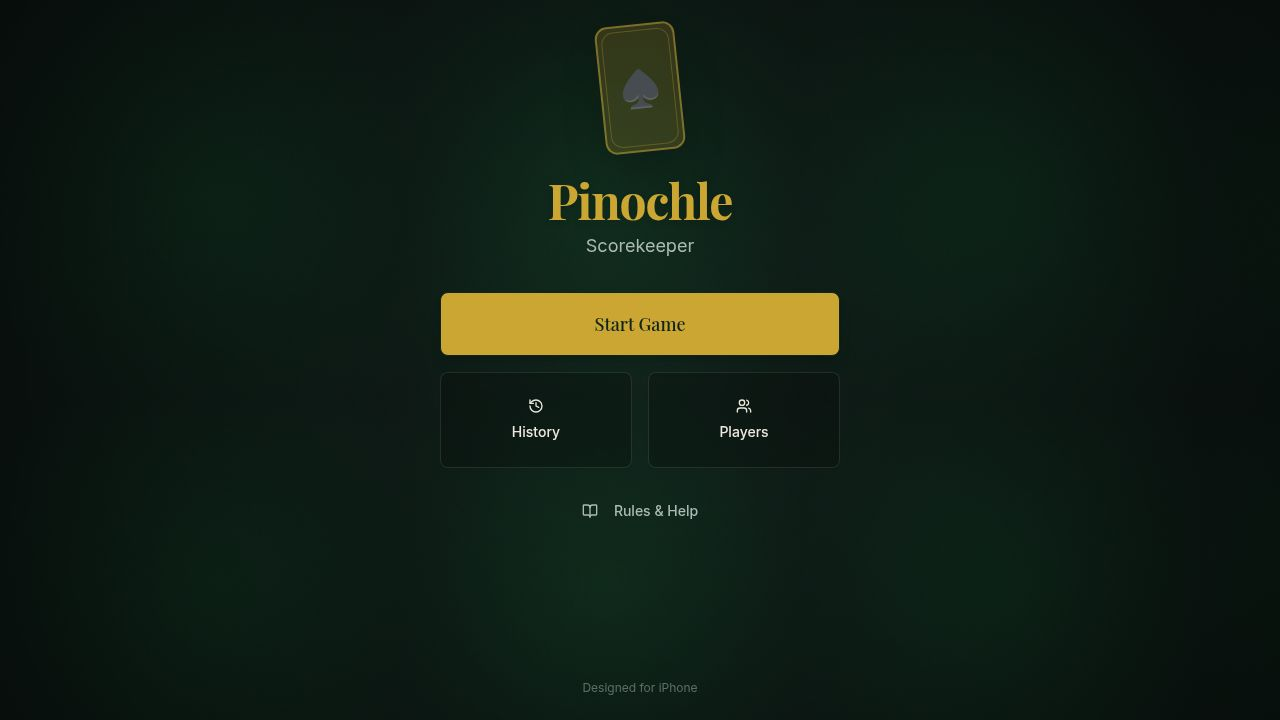
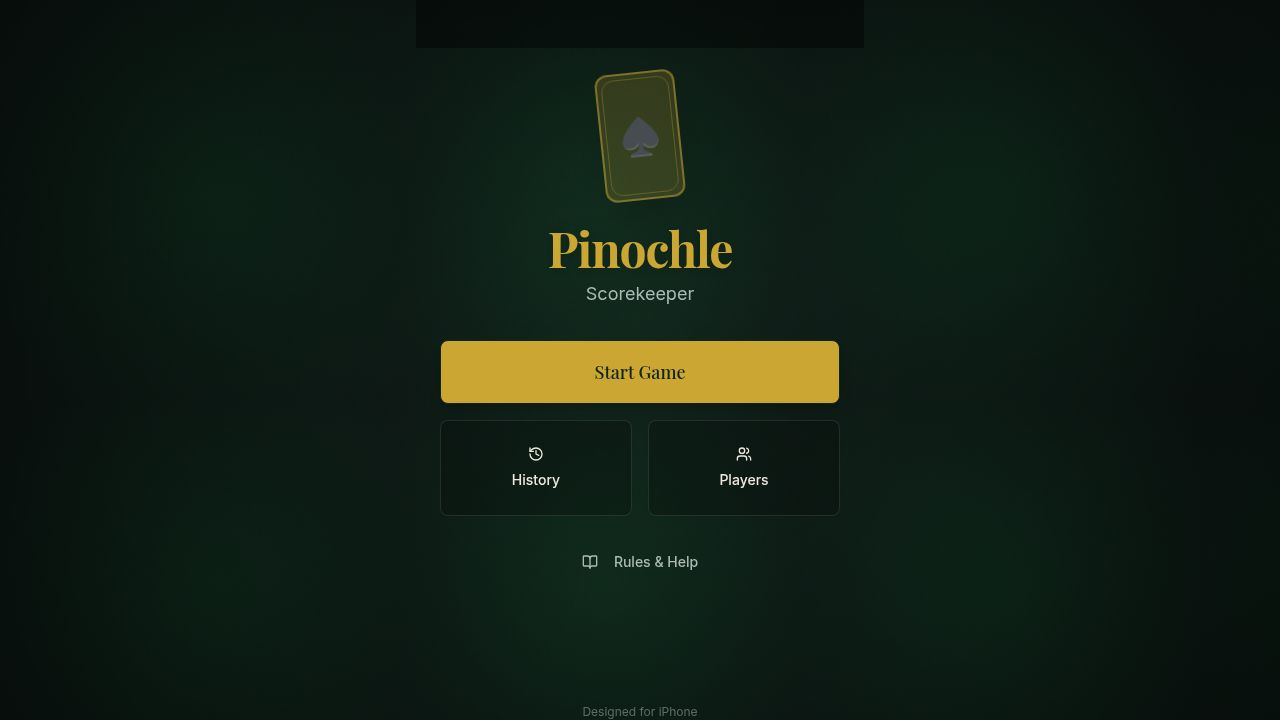
Add top spacing to ensure content is below the screen's dynamic island
Introduce a `SafeAreaTop` component and integrate it into various layout and header components across the application to account for `env(safe-area-inset-top)`. This addresses overlapping UI elements on devices with notches or dynamic islands.

Replit-Commit-Author: Agent
Replit-Commit-Session-Id: 0c8156b9-da63-42cc-8983-2485315dd8e3
Replit-Commit-Checkpoint-Type: intermediate_checkpoint
Replit-Commit-Event-Id: 95877ea5-78ca-4a24-9460-f9c76713bd26
Replit-Commit-Screenshot-Url: https://storage.googleapis.com/screenshot-production-us-central1/1c056100-dffb-44dd-b402-e095d16002ef/0c8156b9-da63-42cc-8983-2485315dd8e3/MrRwULx
Replit-Helium-Checkpoint-Created: true

diff --git a/client/src/pages/home.tsx b/client/src/pages/home.tsx
@@ -1,6 +1,6 @@
 import { useStore } from "@/lib/store";
 import { useLocation } from "wouter";
-import { Layout } from "@/components/layout";
+import { Layout, SafeAreaTop } from "@/components/layout";
 import { Button } from "@/components/ui/button";
 import { motion } from "framer-motion";
 import { Play, Users, BookOpen, History as HistoryIcon } from "lucide-react";
@@ -12,78 +12,81 @@ export default function Home() {
   const hasActiveGame = !!activeGame;
 
   return (
-    <Layout className="justify-center p-6 pt-[env(safe-area-inset-top,44px)] pb-[env(safe-area-inset-bottom,20px)] gap-8">
-      <motion.div 
-        initial={{ opacity: 0, y: 20 }}
-        animate={{ opacity: 1, y: 0 }}
-        className="text-center space-y-2"
-      >
-        <div className="w-20 h-32 mx-auto bg-primary/20 border-2 border-primary/50 rounded-lg transform -rotate-6 mb-6 flex items-center justify-center shadow-2xl relative" data-testid="icon-card-deck">
-            <div className="absolute inset-0 border border-primary/30 rounded-lg m-1"></div>
-            <span className="text-4xl">♠</span>
-        </div>
-        <h1 className="text-5xl font-serif text-primary drop-shadow-md" data-testid="text-app-title">Pinochle</h1>
-        <p className="text-muted-foreground text-lg" data-testid="text-app-subtitle">Scorekeeper</p>
-      </motion.div>
+    <Layout>
+      <SafeAreaTop />
+      <div className="flex-1 flex flex-col justify-center p-6 pb-[env(safe-area-inset-bottom,20px)] gap-8">
+        <motion.div 
+          initial={{ opacity: 0, y: 20 }}
+          animate={{ opacity: 1, y: 0 }}
+          className="text-center space-y-2"
+        >
+          <div className="w-20 h-32 mx-auto bg-primary/20 border-2 border-primary/50 rounded-lg transform -rotate-6 mb-6 flex items-center justify-center shadow-2xl relative" data-testid="icon-card-deck">
+              <div className="absolute inset-0 border border-primary/30 rounded-lg m-1"></div>
+              <span className="text-4xl">♠</span>
+          </div>
+          <h1 className="text-5xl font-serif text-primary drop-shadow-md" data-testid="text-app-title">Pinochle</h1>
+          <p className="text-muted-foreground text-lg" data-testid="text-app-subtitle">Scorekeeper</p>
+        </motion.div>
 
-      <div className="space-y-4 w-full">
-        {hasActiveGame && (
+        <div className="space-y-4 w-full">
+          {hasActiveGame && (
+            <Button 
+              size="lg" 
+              className="w-full h-16 text-lg font-serif bg-primary text-primary-foreground hover:bg-primary/90 shadow-lg border-2 border-primary/20"
+              onClick={() => setLocation("/game")}
+              data-testid="button-resume-game"
+            >
+              <Play className="mr-2 h-6 w-6" /> Resume Game
+            </Button>
+          )}
+
           <Button 
+            variant={hasActiveGame ? "secondary" : "default"}
             size="lg" 
-            className="w-full h-16 text-lg font-serif bg-primary text-primary-foreground hover:bg-primary/90 shadow-lg border-2 border-primary/20"
-            onClick={() => setLocation("/game")}
-            data-testid="button-resume-game"
+            className={hasActiveGame 
+              ? "w-full h-14 text-lg font-serif bg-white/10 hover:bg-white/20"
+              : "w-full h-16 text-lg font-serif bg-primary text-primary-foreground hover:bg-primary/90 shadow-lg"
+            }
+            onClick={() => setLocation("/new-game")}
+            data-testid="button-new-game"
           >
-            <Play className="mr-2 h-6 w-6" /> Resume Game
+            {hasActiveGame ? "Start New Game" : "Start Game"}
           </Button>
-        )}
 
-        <Button 
-          variant={hasActiveGame ? "secondary" : "default"}
-          size="lg" 
-          className={hasActiveGame 
-            ? "w-full h-14 text-lg font-serif bg-white/10 hover:bg-white/20"
-            : "w-full h-16 text-lg font-serif bg-primary text-primary-foreground hover:bg-primary/90 shadow-lg"
-          }
-          onClick={() => setLocation("/new-game")}
-          data-testid="button-new-game"
-        >
-          {hasActiveGame ? "Start New Game" : "Start Game"}
-        </Button>
-
-        <div className="grid grid-cols-2 gap-4">
+          <div className="grid grid-cols-2 gap-4">
+            <Button 
+              variant="outline" 
+              className="h-24 flex-col gap-2 border-white/10 bg-black/20 hover:bg-black/30 hover:text-primary transition-all"
+              onClick={() => setLocation("/history")}
+              data-testid="button-history"
+            >
+              <HistoryIcon className="h-6 w-6" />
+              <span>History</span>
+            </Button>
+            <Button 
+              variant="outline" 
+              className="h-24 flex-col gap-2 border-white/10 bg-black/20 hover:bg-black/30 hover:text-primary transition-all"
+              onClick={() => setLocation("/players")}
+              data-testid="button-players"
+            >
+              <Users className="h-6 w-6" />
+              <span>Players</span>
+            </Button>
+          </div>
+          
           <Button 
-            variant="outline" 
-            className="h-24 flex-col gap-2 border-white/10 bg-black/20 hover:bg-black/30 hover:text-primary transition-all"
-            onClick={() => setLocation("/history")}
-            data-testid="button-history"
+             variant="ghost" 
+             className="w-full text-muted-foreground hover:text-primary mt-2 min-h-[44px]"
+             onClick={() => setLocation("/rules")}
+             data-testid="button-rules"
           >
-            <HistoryIcon className="h-6 w-6" />
-            <span>History</span>
-          </Button>
-          <Button 
-            variant="outline" 
-            className="h-24 flex-col gap-2 border-white/10 bg-black/20 hover:bg-black/30 hover:text-primary transition-all"
-            onClick={() => setLocation("/players")}
-            data-testid="button-players"
-          >
-            <Users className="h-6 w-6" />
-            <span>Players</span>
+             <BookOpen className="h-4 w-4 mr-2" /> Rules & Help
           </Button>
         </div>
-        
-        <Button 
-           variant="ghost" 
-           className="w-full text-muted-foreground hover:text-primary mt-2 min-h-[44px]"
-           onClick={() => setLocation("/rules")}
-           data-testid="button-rules"
-        >
-           <BookOpen className="h-4 w-4 mr-2" /> Rules & Help
-        </Button>
-      </div>
 
-      <div className="text-center text-xs text-muted-foreground/50 mt-auto pt-8" data-testid="text-footer">
-        Designed for iPhone
+        <div className="text-center text-xs text-muted-foreground/50 mt-auto pt-8" data-testid="text-footer">
+          Designed for iPhone
+        </div>
       </div>
     </Layout>
   );

diff --git a/client/src/pages/new-game.tsx b/client/src/pages/new-game.tsx
@@ -67,7 +67,7 @@ export default function NewGame() {
     <Layout>
       <Header title="New Game" showBack />
       
-      <div className="p-6 space-y-8 pb-24">
+      <div className="p-6 space-y-8 pb-24 overflow-y-auto flex-1">
         
         <div className="space-y-3">
           <Label className="text-lg text-primary">Number of Players</Label>
@@ -80,7 +80,7 @@ export default function NewGame() {
                     setSelectedPlayers([]); 
                 }}
                 className={`
-                  flex flex-col items-center justify-center p-3 rounded-lg border-2 transition-all
+                  flex flex-col items-center justify-center p-3 rounded-lg border-2 transition-all min-h-[60px]
                   ${gameType === type 
                     ? "border-primary bg-primary/10 text-primary" 
                     : "border-white/10 bg-black/20 text-muted-foreground hover:bg-white/5"}
@@ -109,7 +109,7 @@ export default function NewGame() {
               onKeyDown={(e) => e.key === 'Enter' && handleAddPlayer()}
               data-testid="input-new-player"
             />
-            <Button size="icon" onClick={handleAddPlayer} disabled={!newPlayerName.trim()} data-testid="button-add-player">
+            <Button size="icon" onClick={handleAddPlayer} disabled={!newPlayerName.trim()} className="min-w-[44px] min-h-[44px]" data-testid="button-add-player">
               <Plus className="h-4 w-4" />
             </Button>
           </div>
@@ -123,7 +123,7 @@ export default function NewGame() {
                     key={player.id}
                     onClick={() => togglePlayer(player.id)}
                     className={`
-                      flex items-center justify-between p-3 rounded-md cursor-pointer transition-colors
+                      flex items-center justify-between p-3 rounded-md cursor-pointer transition-colors min-h-[44px]
                       ${isSelected ? "bg-primary/20 border border-primary/30" : "hover:bg-white/5"}
                     `}
                     data-testid={`player-item-${player.id}`}
@@ -157,11 +157,11 @@ export default function NewGame() {
                     <Label className="text-xs uppercase text-primary/80">Team 1</Label>
                     <div className="grid grid-cols-2 gap-2">
                        {[0, 2].map((idx) => (
-                          <div key={selectedPlayers[idx]} className="bg-black/40 p-3 rounded flex justify-between items-center group" data-testid={`team-player-${idx}`}>
+                          <div key={selectedPlayers[idx]} className="bg-black/40 p-3 rounded flex justify-between items-center group min-h-[44px]" data-testid={`team-player-${idx}`}>
                              <span>{getPlayerName(selectedPlayers[idx])}</span>
                              <div className="flex flex-col gap-1 opacity-50 group-hover:opacity-100">
-                                {idx > 0 && <button onClick={() => movePlayer(idx, idx-1)} data-testid={`button-move-up-${idx}`}><ArrowUp className="h-3 w-3" /></button>}
-                                {idx < 3 && <button onClick={() => movePlayer(idx, idx+1)} data-testid={`button-move-down-${idx}`}><ArrowDown className="h-3 w-3" /></button>}
+                                {idx > 0 && <button onClick={() => movePlayer(idx, idx-1)} className="p-1" data-testid={`button-move-up-${idx}`}><ArrowUp className="h-3 w-3" /></button>}
+                                {idx < 3 && <button onClick={() => movePlayer(idx, idx+1)} className="p-1" data-testid={`button-move-down-${idx}`}><ArrowDown className="h-3 w-3" /></button>}
                              </div>
                           </div>
                        ))}
@@ -172,11 +172,11 @@ export default function NewGame() {
                     <Label className="text-xs uppercase text-primary/80">Team 2</Label>
                     <div className="grid grid-cols-2 gap-2">
                        {[1, 3].map((idx) => (
-                          <div key={selectedPlayers[idx]} className="bg-black/40 p-3 rounded flex justify-between items-center group" data-testid={`team-player-${idx}`}>
+                          <div key={selectedPlayers[idx]} className="bg-black/40 p-3 rounded flex justify-between items-center group min-h-[44px]" data-testid={`team-player-${idx}`}>
                              <span>{getPlayerName(selectedPlayers[idx])}</span>
                              <div className="flex flex-col gap-1 opacity-50 group-hover:opacity-100">
-                                {idx > 0 && <button onClick={() => movePlayer(idx, idx-1)} data-testid={`button-move-up-${idx}`}><ArrowUp className="h-3 w-3" /></button>}
-                                {idx < 3 && <button onClick={() => movePlayer(idx, idx+1)} data-testid={`button-move-down-${idx}`}><ArrowDown className="h-3 w-3" /></button>}
+                                {idx > 0 && <button onClick={() => movePlayer(idx, idx-1)} className="p-1" data-testid={`button-move-up-${idx}`}><ArrowUp className="h-3 w-3" /></button>}
+                                {idx < 3 && <button onClick={() => movePlayer(idx, idx+1)} className="p-1" data-testid={`button-move-down-${idx}`}><ArrowDown className="h-3 w-3" /></button>}
                              </div>
                           </div>
                        ))}

diff --git a/client/src/components/layout.tsx b/client/src/components/layout.tsx
@@ -28,6 +28,18 @@ export function Layout({ children, className }: { children: React.ReactNode; cla
   );
 }
 
+export function SafeAreaTop() {
+  return (
+    <div 
+      className="w-full bg-black/40 backdrop-blur-sm shrink-0"
+      style={{ 
+        height: 'env(safe-area-inset-top, 48px)',
+        minHeight: '48px'
+      }}
+    />
+  );
+}
+
 export function Header({ title, showBack = false }: { title: string, showBack?: boolean }) {
   const [, setLocation] = useLocation();
   
@@ -40,19 +52,22 @@ export function Header({ title, showBack = false }: { title: string, showBack?: 
   };
   
   return (
-    <header className="w-full pt-[env(safe-area-inset-top,44px)] px-4 pb-4 flex items-center justify-between border-b border-white/10 bg-black/30 backdrop-blur-sm sticky top-0 z-50">
-      <div className="flex items-center gap-3 min-h-[44px]">
-        {showBack && (
-          <button 
-            onClick={handleBack} 
-            className="text-muted-foreground hover:text-primary transition-colors p-2 -ml-2 min-w-[44px] min-h-[44px] flex items-center justify-center"
-            data-testid="button-back"
-          >
-            <ChevronLeft className="w-6 h-6" />
-          </button>
-        )}
-        <h1 className="text-xl font-serif font-bold text-primary tracking-wide drop-shadow-sm">{title}</h1>
-      </div>
-    </header>
+    <>
+      <SafeAreaTop />
+      <header className="w-full px-4 py-3 flex items-center justify-between border-b border-white/10 bg-black/30 backdrop-blur-sm sticky top-0 z-50">
+        <div className="flex items-center gap-3 min-h-[44px]">
+          {showBack && (
+            <button 
+              onClick={handleBack} 
+              className="text-muted-foreground hover:text-primary transition-colors p-2 -ml-2 min-w-[44px] min-h-[44px] flex items-center justify-center"
+              data-testid="button-back"
+            >
+              <ChevronLeft className="w-6 h-6" />
+            </button>
+          )}
+          <h1 className="text-xl font-serif font-bold text-primary tracking-wide drop-shadow-sm">{title}</h1>
+        </div>
+      </header>
+    </>
   );
 }

diff --git a/client/src/pages/round-wizard.tsx b/client/src/pages/round-wizard.tsx
@@ -1,7 +1,7 @@
 import { useState } from "react";
 import { useLocation, Redirect } from "wouter";
 import { useStore } from "@/lib/store";
-import { Layout } from "@/components/layout";
+import { Layout, SafeAreaTop } from "@/components/layout";
 import { Button } from "@/components/ui/button";
 import { Dialog, DialogContent, DialogHeader, DialogTitle, DialogFooter, DialogDescription } from "@/components/ui/dialog";
 import { SUITS, Suit, MELD_TYPES } from "@/lib/game-logic";
@@ -134,7 +134,8 @@ export default function RoundWizard() {
   return (
     <Layout>
       <div className="flex flex-col h-full">
-        <div className="px-4 pb-4 pt-[env(safe-area-inset-top,44px)] bg-black/30 backdrop-blur-sm flex justify-between items-center text-xs text-muted-foreground uppercase tracking-widest sticky top-0 z-50 border-b border-white/10">
+        <SafeAreaTop />
+        <div className="px-4 py-3 bg-black/30 backdrop-blur-sm flex justify-between items-center text-xs text-muted-foreground uppercase tracking-widest sticky top-0 z-50 border-b border-white/10">
            <button onClick={() => setLocation("/game")} className="text-muted-foreground hover:text-primary p-2 -ml-2 min-w-[44px] min-h-[44px] flex items-center" data-testid="button-cancel">
              <ChevronLeft className="w-5 h-5 mr-1" /> Cancel
            </button>

diff --git a/client/src/pages/history.tsx b/client/src/pages/history.tsx
@@ -2,7 +2,7 @@ import { useStore } from "@/lib/store";
 import { Layout, Header } from "@/components/layout";
 import { Button } from "@/components/ui/button";
 import { useLocation } from "wouter";
-import { Gamepad2, Trophy, Calendar, ChevronRight } from "lucide-react";
+import { Gamepad2, Calendar, ChevronRight } from "lucide-react";
 import { format } from "date-fns";
 
 export default function History() {
@@ -26,7 +26,7 @@ export default function History() {
                 resumeGame(game.id);
                 setLocation("/game");
               }}
-              className="bg-card p-4 rounded-lg border border-white/10 hover:bg-white/5 active:scale-[0.98] transition-all cursor-pointer group"
+              className="bg-card p-4 rounded-lg border border-white/10 hover:bg-white/5 active:scale-[0.98] transition-all cursor-pointer group min-h-[80px]"
               data-testid={`history-game-${idx}`}
             >
               <div className="flex justify-between items-start mb-2">

diff --git a/client/src/pages/rules.tsx b/client/src/pages/rules.tsx
@@ -1,4 +1,4 @@
-import { Layout } from "@/components/layout";
+import { Layout, SafeAreaTop } from "@/components/layout";
 import { ScrollArea } from "@/components/ui/scroll-area";
 import { useLocation } from "wouter";
 import { ChevronLeft } from "lucide-react";
@@ -16,7 +16,8 @@ export default function Rules() {
 
   return (
     <Layout>
-      <header className="px-4 pb-4 pt-[env(safe-area-inset-top,44px)] border-b border-white/10 flex items-center gap-2 sticky top-0 bg-black/30 backdrop-blur-sm z-50">
+      <SafeAreaTop />
+      <header className="px-4 py-3 border-b border-white/10 flex items-center gap-2 sticky top-0 bg-black/30 backdrop-blur-sm z-50">
         <button 
           onClick={handleBack} 
           className="text-muted-foreground hover:text-primary p-2 -ml-2 min-w-[44px] min-h-[44px] flex items-center justify-center"

diff --git a/client/src/pages/game.tsx b/client/src/pages/game.tsx
@@ -1,5 +1,5 @@
 import { useStore } from "@/lib/store";
-import { Layout } from "@/components/layout";
+import { Layout, SafeAreaTop } from "@/components/layout";
 import { Button } from "@/components/ui/button";
 import { useLocation, Redirect } from "wouter";
 import { Plus, RotateCcw, BarChart3, ChevronLeft } from "lucide-react";
@@ -32,7 +32,8 @@ export default function Game() {
 
   return (
     <Layout>
-      <header className="flex items-center justify-between px-4 pb-4 pt-[env(safe-area-inset-top,44px)] bg-black/30 backdrop-blur-sm border-b border-white/10 sticky top-0 z-50">
+      <SafeAreaTop />
+      <header className="flex items-center justify-between px-4 py-3 bg-black/30 backdrop-blur-sm border-b border-white/10 sticky top-0 z-50">
          <Button 
            variant="ghost" 
            size="sm" 

diff --git a/client/src/pages/players.tsx b/client/src/pages/players.tsx
@@ -30,11 +30,11 @@ export default function Players() {
             onKeyDown={(e) => e.key === 'Enter' && handleAdd()}
             data-testid="input-player-name"
           />
-          <Button onClick={handleAdd} disabled={!name.trim()} data-testid="button-add-player">Add</Button>
+          <Button onClick={handleAdd} disabled={!name.trim()} className="min-w-[44px] min-h-[44px]" data-testid="button-add-player">Add</Button>
         </div>
 
         <ScrollArea className="flex-1">
-          <div className="space-y-3">
+          <div className="space-y-3 pb-8">
             {players.map((player, idx) => (
               <div key={player.id} className="bg-card p-4 rounded-lg border border-white/5 flex justify-between items-center" data-testid={`player-card-${idx}`}>
                 <div>
